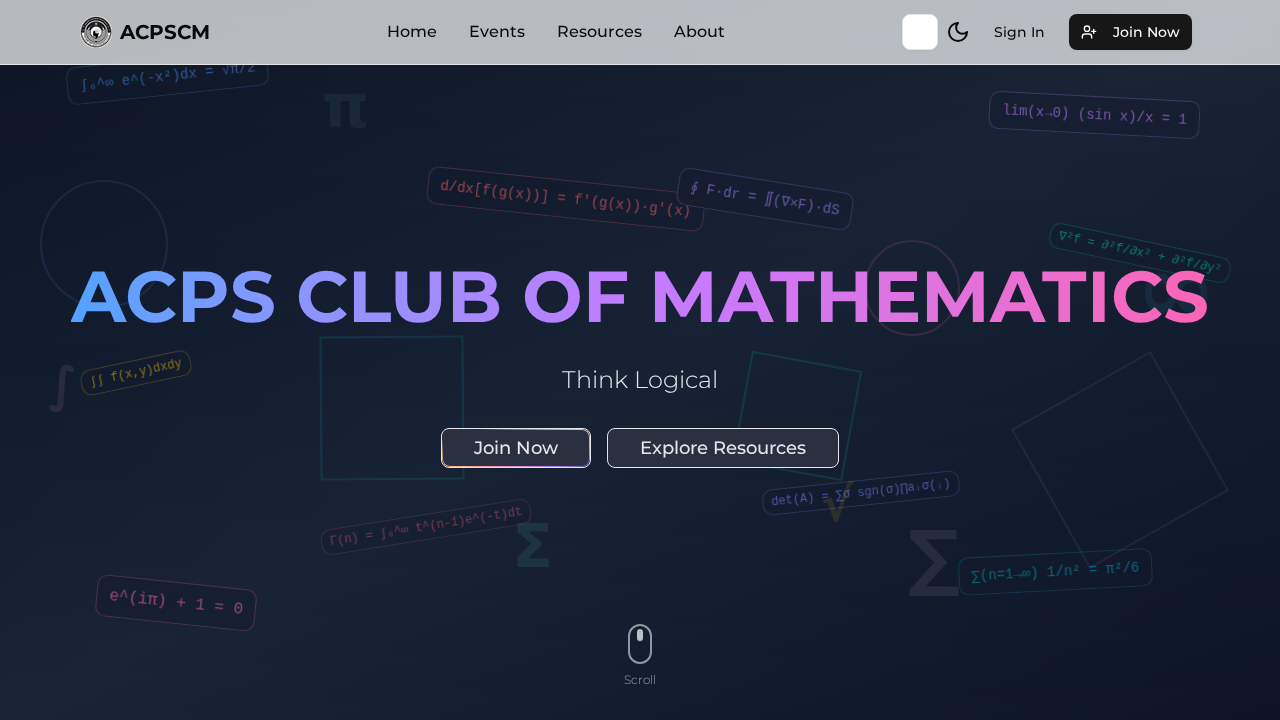
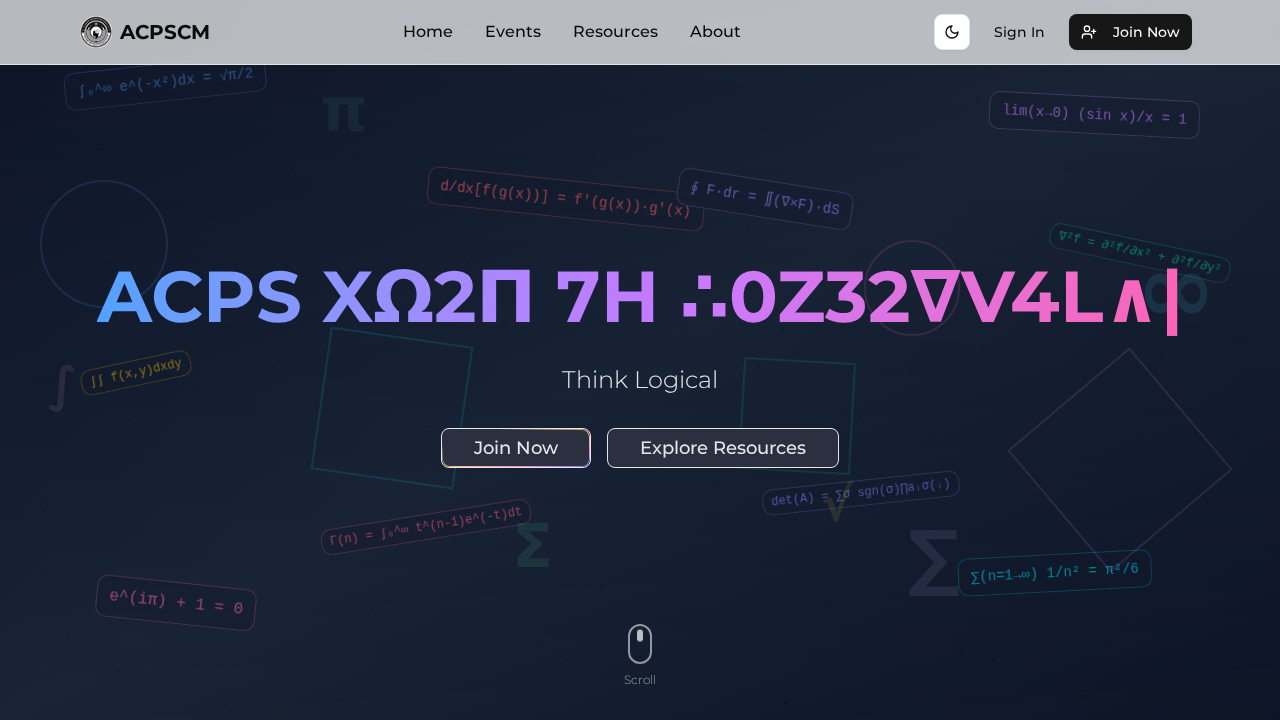
Revert "feat: Redesign landing page sections"
This reverts commit b37d01e3ce777a0b7be7459f888ceb1bf33f6ed8.

diff --git a/components/home/WhatWeDo.tsx b/components/home/WhatWeDo.tsx
@@ -10,22 +10,22 @@ import React from "react";
 
 const objectives = [
     {
-        icon: <IconCalculator size={48} className="mx-auto text-blue-500" />,
+        icon: <IconCalculator size={48} className="mx-auto text-purple-400" />,
         title: "Problem Solving",
         description: "Develop your math skills through challenging problems and real-world applications. Build critical thinking and problem-solving abilities.",
     },
     {
-        icon: <IconTrophy size={48} className="mx-auto text-yellow-500" />,
+        icon: <IconTrophy size={48} className="mx-auto text-yellow-400" />,
         title: "Olympiad Preparation",
         description: "Preparing for math Olympiads helps you think outside the box and tackle advanced problems with confidence.",
     },
     {
-        icon: <IconBulb size={48} className="mx-auto text-green-500" />,
+        icon: <IconBulb size={48} className="mx-auto text-green-400" />,
         title: "Creativity",
         description: "Learn how creativity fuels problem-solving. Apply mathematical thinking in innovative ways.",
     },
     {
-        icon: <IconHeartHandshake size={48} className="mx-auto text-red-500" />,
+        icon: <IconHeartHandshake size={48} className="mx-auto text-pink-400" />,
         title: "Love for Math",
         description: "Embrace your passion for mathematics and explore its beauty in a supportive environment.",
     },
@@ -35,16 +35,17 @@ export default function WhatWeDo() {
     return (
         <section className="py-20 px-4">
             <div className="max-w-6xl mx-auto">
-                <h2 className="text-4xl font-bold text-center mb-12">
-                    What We Do
+                <h2 className="text-5xl md:text-6xl lg:text-7xl font-bold tracking-tight text-center text-transparent bg-clip-text bg-gradient-to-b from-white to-gray-400 py-4">
+                    Our Objectives
                 </h2>
-                <div className="grid grid-cols-1 md:grid-cols-2 lg:grid-cols-4 gap-8">
+                <div className="grid grid-cols-1 md:grid-cols-2 lg:grid-cols-4 gap-8 mt-16">
                     {objectives.map((objective, index) => (
-                        <Card key={index} className="rounded-lg shadow-lg p-6 text-center">
+                        <Card key={index} className="bg-gray-900/50 border-purple-500/50 rounded-lg shadow-lg p-6 text-center transition-all duration-300 hover:shadow-purple-500/50 hover:border-purple-500">
                             <CardContent>
                                 {objective.icon}
-                                <h3 className="text-xl font-bold mt-4">{objective.title}</h3>
-                                <p className="text-gray-600 mt-2">{objective.description}</p>
+                                <h3 className="text-xl font-bold text-white mt-4">{objective.title}</h3>
+                                <hr className="my-2 border-purple-500/50 w-1/2 mx-auto" />
+                                <p className="text-gray-400 mt-2">{objective.description}</p>
                             </CardContent>
                         </Card>
                     ))}

diff --git a/components/home/BentoGrid.tsx b/components/home/BentoGrid.tsx
@@ -45,7 +45,7 @@ export default function BentoGridDemo() {
     return (
       <section className="py-20 px-4">
         <div className="max-w-6xl mx-auto">
-          <h2 className="text-4xl font-bold text-center mb-12">
+          <h2 className="text-5xl md:text-6xl lg:text-7xl font-bold tracking-tight text-center text-transparent bg-clip-text bg-gradient-to-b from-white to-gray-400 py-4">
             From the Club
           </h2>
           <BentoGrid className="max-w-4xl mx-auto">
@@ -68,7 +68,7 @@ export default function BentoGridDemo() {
     return (
       <section className="py-20 px-4">
         <div className="max-w-6xl mx-auto">
-          <h2 className="text-4xl font-bold text-center mb-12">
+          <h2 className="text-5xl md:text-6xl lg:text-7xl font-bold tracking-tight text-center text-transparent bg-clip-text bg-gradient-to-b from-white to-gray-400 py-4">
             From the Club
           </h2>
           <div className="text-center">
@@ -88,10 +88,10 @@ export default function BentoGridDemo() {
       title: "Latest Event",
       description: (
         <>
-          <h3 className="text-xl font-bold mb-2">
+          <h3 className="text-xl font-bold text-white mb-2">
             {highlights.event.title}
           </h3>
-          <div className="text-gray-600 line-clamp-2">
+          <div className="text-gray-400 line-clamp-2">
             <MinimalTiptapEditor
               value={highlights.event.description as JSONContent}
               output="text"
@@ -129,10 +129,10 @@ export default function BentoGridDemo() {
       title: "Most Popular Resource",
       description: (
         <>
-          <h3 className="text-xl font-bold mb-2">
+          <h3 className="text-xl font-bold text-white mb-2">
             {highlights.resource.title}
           </h3>
-          <p className="text-gray-600 line-clamp-2">
+          <p className="text-gray-400 line-clamp-2">
             {highlights.resource.description}
           </p>
           <Button asChild className="mt-4">
@@ -210,10 +210,10 @@ export default function BentoGridDemo() {
       title: "Latest Magazine",
       description: (
         <>
-          <h3 className="text-xl font-bold mb-2">
+          <h3 className="text-xl font-bold text-white mb-2">
             {highlights.magazine.title}
           </h3>
-          <p className="text-gray-600 line-clamp-2">
+          <p className="text-gray-400 line-clamp-2">
             {highlights.magazine.summary}
           </p>
           <Button asChild className="mt-4">
@@ -244,7 +244,7 @@ export default function BentoGridDemo() {
   return (
     <section className="py-20 px-4">
       <div className="max-w-6xl mx-auto">
-        <h2 className="text-4xl font-bold text-center mb-12">
+        <h2 className="text-5xl md:text-6xl lg:text-7xl font-bold tracking-tight text-center text-transparent bg-clip-text bg-gradient-to-b from-white to-gray-400 py-4">
           From the Club
         </h2>
         <BentoGrid className="max-w-4xl mx-auto">

diff --git a/components/home/WhoWeAre.tsx b/components/home/WhoWeAre.tsx
@@ -66,20 +66,20 @@ export default function WhoWeAre() {
     return (
         <section className="py-20 px-4">
             <div className="max-w-6xl mx-auto">
-                <h2 className="text-4xl font-bold text-center mb-4">
-                    Who We Are
+                <h2 className="text-5xl md:text-6xl lg:text-7xl font-bold tracking-tight text-center text-transparent bg-clip-text bg-gradient-to-b from-white to-gray-400 py-4">
+                    Where Others Stop <br /> We Keep Going
                 </h2>
-                <p className="text-lg text-gray-600 max-w-2xl mx-auto text-center mb-12">
+                <p className="text-lg text-gray-400 max-w-2xl mx-auto text-center">
                     Our club delves into the depths of mathematics, providing unmatched attention to detail and fostering a community that thrives on solving complex problems and pushing the boundaries of knowledge.
                 </p>
-                <div className="grid grid-cols-1 md:grid-cols-2 lg:grid-cols-4 gap-8 text-left">
+                <div className="grid grid-cols-1 md:grid-cols-2 lg:grid-cols-4 gap-8 text-left mt-16">
                     {features.map((feature, index) => (
-                        <div key={index} className={cn("p-8 rounded-lg shadow-lg", feature.className)}>
-                            <div className="text-blue-500 mb-4">
+                        <div key={index} className={cn("group bg-gray-800/80 border border-gray-700/80 p-8 rounded-lg hover:border-primary transition-colors duration-300", feature.className)}>
+                            <div className="text-primary mb-4 group-hover:text-white transition-colors duration-300">
                                 {feature.icon}
                             </div>
-                            <h3 className="text-xl font-semibold mb-2">{feature.title}</h3>
-                            <p className="text-gray-600">
+                            <h3 className="text-xl font-semibold mb-2 text-white">{feature.title}</h3>
+                            <p className="text-gray-400">
                                 {feature.description}
                             </p>
                         </div>

diff --git a/app/globals.css b/app/globals.css
@@ -64,9 +64,9 @@
 
 .dark {
     --background: 222.2 84% 4.9%;
-    --foreground: 215 28% 17%;
-    --card: 210 17% 98%;
-    --card-foreground: 215 28% 17%;
+    --foreground: 210 40% 98%;
+    --card: 222.2 84% 4.9%;
+    --card-foreground: 210 40% 98%;
     --popover: 222.2 84% 4.9%;
     --popover-foreground: 210 40% 98%;
     --primary: 210 40% 98%;
@@ -217,8 +217,9 @@
     font-family: 'Montserrat', var(--font-sans);
     }
     .dark body {
-        background-color: #B4B4B4;
-        background-image: linear-gradient(135deg, #42C2FF 0%, #898EFF 100%);
+        background-color: #0D1117;
+        background-image: radial-gradient(circle at 1px 1px, rgba(255,255,255,0.1) 1px, transparent 0);
+        background-size: 2rem 2rem;
     }
     a[href], button, [role="button"], input[type="button"], input[type="submit"] {
         cursor: pointer;

diff --git a/components/home/ClientTestimonials.tsx b/components/home/ClientTestimonials.tsx
@@ -6,14 +6,14 @@ export default function ClientTestimonials() {
     return (
         <section className="py-20 px-4">
             <div className="max-w-4xl mx-auto">
-                <h2 className="text-4xl font-bold text-center mb-12">
+                <h2 className="text-5xl md:text-6xl lg:text-7xl font-bold tracking-tight text-center text-transparent bg-clip-text bg-gradient-to-b from-white to-gray-400 py-4">
                     From Our Members
                 </h2>
 
-                <Card className="max-w-3xl mx-auto rounded-lg shadow-lg">
+                <Card className="max-w-3xl mx-auto bg-gray-800/80 border-gray-700/80 mt-16">
                     <CardContent className="pt-8">
                         <div className="text-center">
-                            <Avatar className="w-20 h-20 mx-auto mb-6">
+                            <Avatar className="w-20 h-20 mx-auto mb-6 border-4 border-primary/20">
                                 <AvatarImage
                                     src="/api/placeholder/80/80"
                                     alt="Sarah Chen"
@@ -23,14 +23,14 @@ export default function ClientTestimonials() {
                                 </AvatarFallback>
                             </Avatar>
 
-                            <blockquote className="text-lg md:text-xl text-gray-600 leading-relaxed mb-6 italic">
+                            <blockquote className="text-lg md:text-xl text-gray-400 leading-relaxed mb-6 italic">
                                 "ACPSCM has been an incredible
                                 experience. The community is supportive, and the
                                 resources are top-notch. I've learned so much
                                 and made great friends along the way!"
                             </blockquote>
 
-                            <footer className="text-base font-medium">
+                            <footer className="text-base text-primary font-medium">
                                 Sarah Chen
                             </footer>
                             <p className="text-sm text-gray-500">